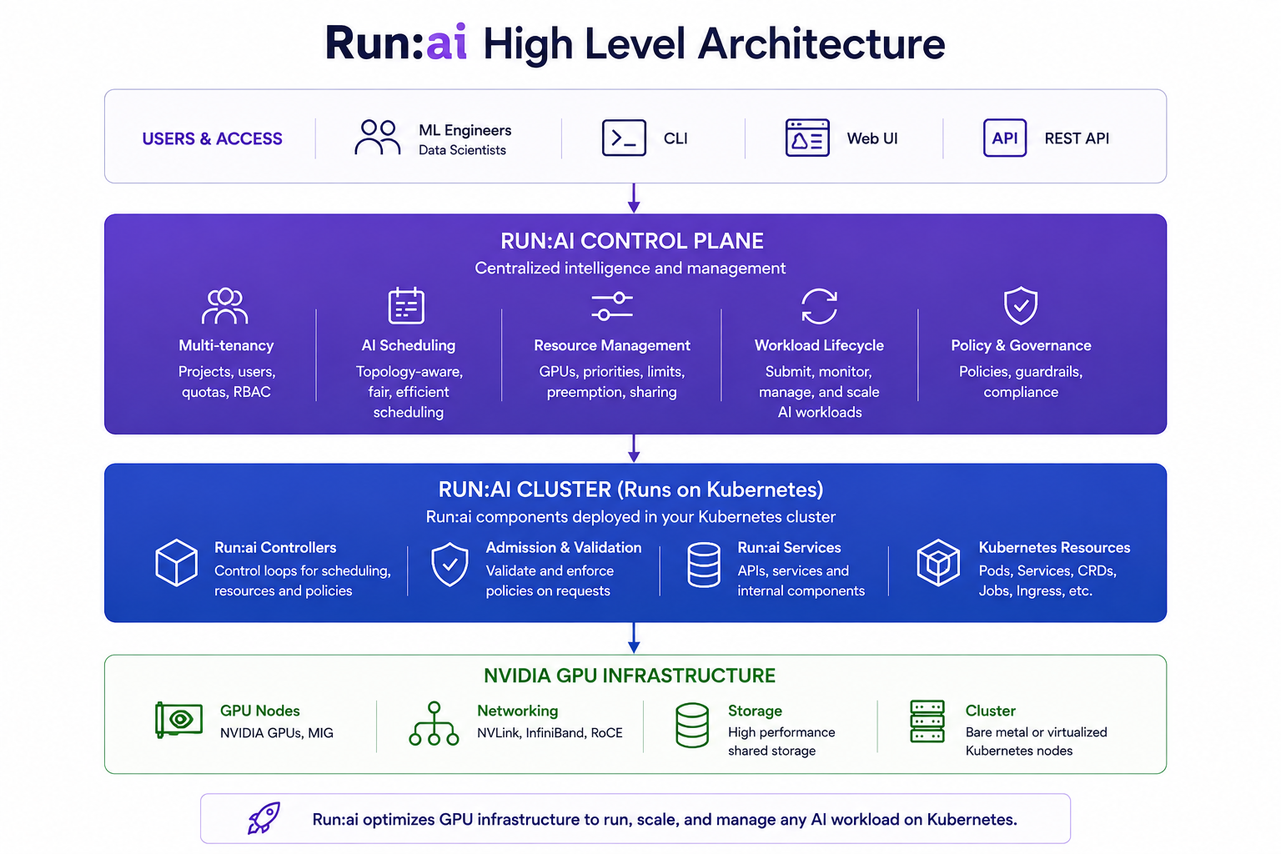
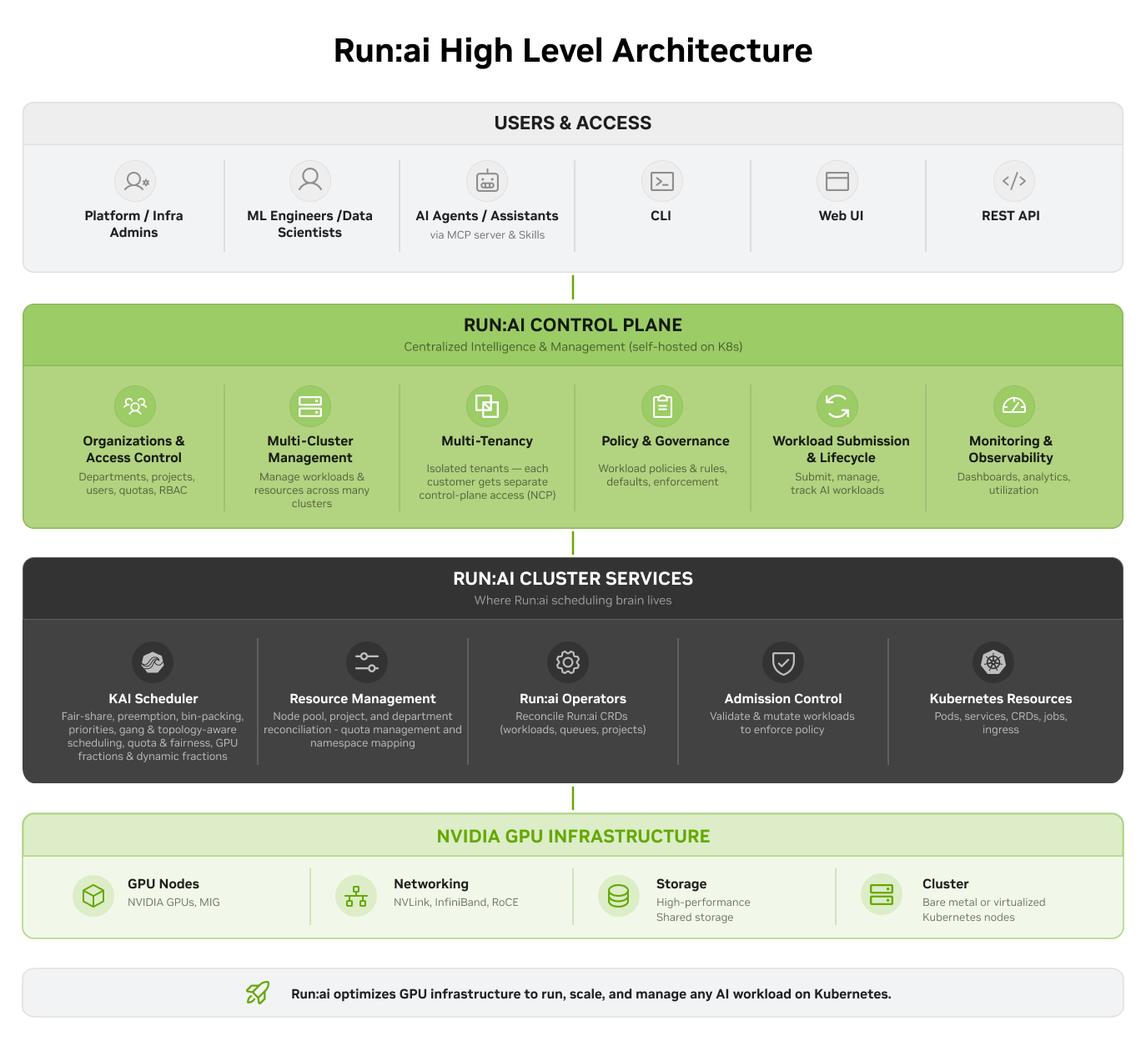
docs: update architecture.md services to match new platform diagram (#99)
* docs: update architecture.md services to match new platform diagram

Adds gateway-hub, tenants-manager, policy-service, notifications-service,
runtime-rules, and a new Resource Management section (nodepool-controller,
project-controller) to keep the Control Plane and Cluster Components
sections aligned with the new system-overview diagram. Replaces the
system-overview.png referenced by both README.md and architecture.md.

* docs: add OSS composition diagram to External Dependencies

Adds docs/assets/oss-composition.svg, showing how KAI Scheduler, Karta,
and KRM connect to Run:ai's own cluster components in the workload
scheduling pipeline. Updates the External Dependencies section text:
resolves the open TBD (KAI Scheduler is a direct runai-chart dependency,
v0.16.9), adds kai-gpu-fractioning as a KAI Scheduler sub-dependency,
corrects the KRM description (it's a shared CRD schema consumed by
nodepool-controller/project-controller, not a rolling-out toggle), and
notes Karta's role in anyworkload-controller's pod creation.

* docs: rewrite external dependencies wording and add kai-gpu-fractioning

Drops hardcoded chart versions, promotes kai-gpu-fractioning to its own
entry (dependency of KAI Scheduler, not runai-chart), points Karta's
source at its GitHub repo instead of the OCI chart URL, links
kai-resource-management-api, and removes stale/speculative KRM text
that referenced a kai-resource-management repo that doesn't exist.
[…]

diff --git a/docs/developer/architecture.md b/docs/developer/architecture.md
@@ -17,20 +17,22 @@ NVIDIA Run:ai exposes four interfaces to administrators, AI practitioners, and e
 
 ## Control Plane Services
 
-The control plane is the centralized management layer of NVIDIA Run:ai. It provides the APIs and services that configure, monitor, and manage AI environments across one or more Kubernetes clusters from a single place, and because it's decoupled from any single cluster, one control plane can manage multiple clusters and tenants, with each tenant getting its own isolated UI, API, and CLI. Internally, control plane services are independently deployable microservices that communicate over a pub/sub event bus. The sections below group these services by the capability they deliver - identity and access, organizational structure, workload lifecycle, observability, and platform delivery. See the [Service Reference](services.md) for the complete list of control-plane services.
+The control plane is the centralized management layer of NVIDIA Run:ai. It provides the APIs and services that configure, monitor, and manage AI environments across one or more Kubernetes clusters from a single place, and because it's decoupled from any single cluster, one control plane can manage multiple clusters and tenants, with each tenant getting its own isolated UI, API, and CLI. Internally, control plane services are independently deployable microservices that communicate over a pub/sub event bus. The sections below group these services by the capability they deliver - identity and access, organizational structure, workload lifecycle, observability, multi-cluster management, and platform delivery. See the [Service Reference](services.md) for the complete list of control-plane services.
 
-- **Identity and Access** - Handles authentication, identity provider integration, and RBAC enforcement across all services. Every request to NVIDIA Run:ai, through the UI, CLI, or API, is authenticated and then authorized before it's allowed to proceed. [identity-manager](https://github.com/dsx-ai-factory/run-ai/tree/main/control-plane/identity-manager) authenticates the requester, resolving external identity providers, local users, and service accounts, and issuing and revoking tokens. [authorization](https://github.com/dsx-ai-factory/run-ai/tree/main/control-plane/authorization) then evaluates that identity against RBAC roles and access rules to resolve the effective permissions for the request.
-- **Organizational Structure** - Manages the hierarchy of tenants, departments, and projects that scopes resource quotas and access rules. Compute is organized into a physical layer (nodes and node pools) and an organizational layer (departments and projects) connected through quota. [org-unit-service](https://github.com/dsx-ai-factory/run-ai/tree/main/control-plane/org-unit-service) persists that hierarchy and the quota allocated at each level, and syncs it to every managed cluster so scheduling and quota enforcement always resolve against the same source of truth.
-- **Workload Lifecycle** - Handles workload submission, policy enforcement, asset management, and persistent storage. When a workload is submitted, [workloads-manager](https://github.com/dsx-ai-factory/run-ai/tree/main/control-plane/workloads-manager) validates it against effective policy, resolves any assets it references, and generates the Kubernetes manifests that get synced down to the cluster. [assets-service](https://github.com/dsx-ai-factory/run-ai/tree/main/control-plane/assets-service) manages those reusable assets, environments, compute resources, credentials, data sources, so workloads can reference a standardized configuration instead of repeating it.
-- **Observability** - Collects and serves GPU and workload metrics, audit logs, and event-driven notifications. [metrics-service](https://github.com/dsx-ai-factory/run-ai/tree/main/control-plane/metrics-service) queries per-tenant, per-cluster Prometheus stores and serves GPU and workload metrics over REST. [audit-service](https://github.com/dsx-ai-factory/run-ai/tree/main/control-plane/audit-service) ingests user and system action events from the pub/sub bus and persists them for query.
-- **Platform Delivery** - Serves the web UI, CLI binaries, and the cluster-facing APIs that track node and Kubernetes object state. [frontend](https://github.com/dsx-ai-factory/run-ai/tree/main/control-plane/frontend) is the web UI. [cluster-service](https://github.com/dsx-ai-factory/run-ai/tree/main/control-plane/cluster-service) maintains control-plane state for cluster-scoped resources, currently node inventory, and syncs it from connected clusters.
+- **Identity and Access** - Handles authentication, identity provider integration, and RBAC enforcement across all services. Every request to NVIDIA Run:ai, through the UI, CLI, or API, is authenticated and then authorized before it's allowed to proceed. [gateway-hub](https://github.com/dsx-ai-factory/run-ai/tree/main/control-plane/gateway-hub) is the entry point for every request, validating the bearer token and resolving the tenant from the request subdomain before routing it onward. [identity-manager](https://github.com/dsx-ai-factory/run-ai/tree/main/control-plane/identity-manager) then authenticates the requester, resolving external identity providers, local users, and service accounts, and issuing and revoking tokens. [authorization](https://github.com/dsx-ai-factory/run-ai/tree/main/control-plane/authorization) evaluates that identity against RBAC roles and access rules to resolve the effective permissions for the request.
+- **Organizational Structure** - Manages the hierarchy of tenants, departments, and projects that scopes resource quotas and access rules. Compute is organized into a physical layer (nodes and node pools) and an organizational layer (departments and projects) connected through quota. [tenants-manager](https://github.com/dsx-ai-factory/run-ai/tree/main/control-plane/tenants-manager) manages tenant lifecycle, creation, deletion, and configuration, in multi-tenant deployments, giving each tenant its own isolated UI, API, and CLI. [org-unit-service](https://github.com/dsx-ai-factory/run-ai/tree/main/control-plane/org-unit-service) persists the department and project hierarchy and the quota allocated at each level, and syncs it to every managed cluster so scheduling and quota enforcement always resolve against the same source of truth.
+- **Workload Lifecycle** - Handles workload submission, policy enforcement, asset management, and persistent storage. [policy-service](https://github.com/dsx-ai-factory/run-ai/tree/main/control-plane/policy-service) stores workload policies per scope, tenant, department, project, and computes the effective policy for each. When a workload is submitted, [workloads-manager](https://github.com/dsx-ai-factory/run-ai/tree/main/control-plane/workloads-manager) validates it against that effective policy, resolves any assets it references, and generates the Kubernetes manifests that get synced down to the cluster. [assets-service](https://github.com/dsx-ai-factory/run-ai/tree/main/control-plane/assets-service) manages those reusable assets, environments, compute resources, credentials, data sources, so workloads can reference a standardized configuration instead of repeating it.
+- **Observability** - Collects and serves GPU and workload metrics, audit logs, and event-driven notifications. [metrics-service](https://github.com/dsx-ai-factory/run-ai/tree/main/control-plane/metrics-service) queries per-tenant, per-cluster Prometheus stores and serves GPU and workload metrics over REST. [audit-service](https://github.com/dsx-ai-factory/run-ai/tree/main/control-plane/audit-service) ingests user and system action events from the pub/sub bus and persists them for query. [notifications-service](https://github.com/dsx-ai-factory/run-ai/tree/main/control-plane/notifications-service) ingests platform events and routes and renders them via configurable rules and templates, dispatching to channels such as email and Slack.
+- **Multi-Cluster Management** - Allows one control plane to manage workloads and resources across many connected Kubernetes clusters. [cluster-service](https://github.com/dsx-ai-factory/run-ai/tree/main/control-plane/cluster-service) maintains control-plane state for cluster-scoped resources, currently node inventory, and syncs it from every connected cluster so cross-cluster views stay current.
+- **Platform Delivery** - Serves the web UI and CLI binaries. [frontend](https://github.com/dsx-ai-factory/run-ai/tree/main/control-plane/frontend) is the web UI.
 
 ## Cluster Components
 
 Each Kubernetes cluster connected to NVIDIA Run:ai runs a set of cluster components that extend Kubernetes with AI-specific capabilities, installed and managed by the [go-operator](https://github.com/dsx-ai-factory/run-ai/tree/main/runai-cluster/cluster/go-operator), which owns their full lifecycle: deploy, configure, and update. The cluster plane is CRD-driven: components reconcile control-plane desired state into cluster CRDs such as `RunaiConfig`, `AccessRule`, and `WorkloadRunner`, and report status back through the same CRDs. See the [Service Reference](services.md) and [CRD Reference](crds.md) for the complete list of cluster components and CRDs.
 
 - **Data Sync** - [agent](https://github.com/dsx-ai-factory/run-ai/tree/main/runai-cluster/cluster/agent) pulls desired state for every resource kind, projects, workloads, access rules, node pools, credentials, from the control plane and reconciles each into the cluster. [cluster-sync](https://github.com/dsx-ai-factory/run-ai/tree/main/runai-cluster/cluster/cluster-sync) watches those CRDs and live Kubernetes objects and pushes their state back up to the control plane. This two-channel pattern, desired state down, live state up, is how the two planes stay synchronized, over an outbound-only, secured connection so clusters never need to be publicly reachable.
-- **Scheduling** - [admission-controller](https://github.com/dsx-ai-factory/run-ai/tree/main/runai-cluster/cluster/admission-controller) intercepts pod creation and injects Run:ai scheduling attributes, labels, annotations, resource patches, before a pod is admitted. The actual placement decision is made by the Scheduler, built on the external KAI Scheduler (see External Dependencies below), which applies fair-share, preemption, bin-packing, and topology-aware placement rules. Each node pool runs its own Scheduler instance, so scheduling decisions for one hardware group never compete with another.
+- **Scheduling** - [admission-controller](https://github.com/dsx-ai-factory/run-ai/tree/main/runai-cluster/cluster/admission-controller) intercepts pod creation and injects Run:ai scheduling attributes, labels, annotations, resource patches, before a pod is admitted. The actual placement decision is made by the Scheduler, built on the external KAI Scheduler (see External Dependencies below), which applies fair-share, preemption, bin-packing, and topology-aware placement rules. Each node pool runs its own Scheduler instance, so scheduling decisions for one hardware group never compete with another. Once a workload is running, [runtime-rules](https://github.com/dsx-ai-factory/run-ai/tree/main/runai-cluster/cluster/runtime-rules) enforces time-based policies, terminating interactive and training workloads that exceed their configured idle or time limits.
+- **Resource Management** - Reconciles node pools and organizational units into the physical and namespace resources workloads run in. [nodepool-controller](https://github.com/dsx-ai-factory/run-ai/tree/main/runai-cluster/cluster/nodepool-controller) tags each node with the node pool it belongs to and starts a dedicated Scheduler instance per node pool. [project-controller](https://github.com/dsx-ai-factory/run-ai/tree/main/runai-cluster/cluster/project-controller) reconciles Project CRDs into their corresponding namespace, queue, limit range, and image pull secret.
 - **Workload Lifecycle** - [anyworkload-controller](https://github.com/dsx-ai-factory/run-ai/tree/main/runai-cluster/cluster/anyworkload-controller) translates a workload's CRD into its underlying pods and manages their full lifecycle: creation, status, teardown.
 - **RBAC and Project Isolation** - [accessrule-controller](https://github.com/dsx-ai-factory/run-ai/tree/main/runai-cluster/cluster/accessrule-controller) reconciles `AccessRule` CRDs into native Kubernetes RoleBindings in the corresponding project namespace. [shared-objects-controller](https://github.com/dsx-ai-factory/run-ai/tree/main/runai-cluster/cluster/shared-objects-controller) replicates shared objects, primarily PVCs from `DataVolume` CRDs, into every project or department namespace that references them.
 
@@ -48,11 +50,15 @@ A request moves through the platform in a loop: down from the control plane to t
 
 ## External Dependencies
 
-NVIDIA Run:ai's cluster components build on external open-source projects, pulled in as versioned Helm chart dependencies rather than built from Run:ai source. NVIDIA Run:ai packages, configures, and manages these dependencies as part of the platform, so no separate installation or maintenance is required to use them.
+NVIDIA Run:ai's cluster components build on external open-source projects, pulled in as versioned Helm chart dependencies or Go modules rather than built from Run:ai source. NVIDIA Run:ai packages, configures, and manages these dependencies as part of the platform, so no separate installation or maintenance is required to use them. The diagram below shows how these dependencies connect to Run:ai's own cluster components in the workload scheduling pipeline.
 
-- **[KAI Scheduler](https://github.com/kai-scheduler/KAI-Scheduler)** - An open-source, CNCF-donated AI-aware scheduling engine that applies fair-share, preemption, bin-packing, and multi-node placement rules to GPU workloads. It's the engine underlying the NVIDIA Run:ai Scheduler, integrated with Run:ai-specific configuration. It's now a sub-dependency of KRM's node pool controller. **TBD: check Helm chart** - Confirm whether KAI Scheduler is still also pulled in as a direct chart dependency elsewhere.
-- **[Karta](https://github.com/run-ai/karta)** - A CRD-based resource abstraction layer with its own operator. Karta defines a standard schema for describing any Kubernetes workload type - PyTorchJob, RayCluster, JobSet, and custom CRDs - so controllers can extract pod specs, replica counts, and status without per-type logic. Used in NVIDIA Run:ai to represent and reconcile workload resource attachments in the cluster.
-- **KAI Resource Management (KRM)** *(rolling out)* - Takes over node pool and project/department-to-namespace reconciliation, migrating them onto `kai.resources` CRDs behind a staged, feature-flagged rollout; legacy CRDs are still supported alongside it this release. Pod group scheduling coordination has not yet moved to KRM and remains in the go-operator's kai-operator.
+![How open source enables the NVIDIA Run:ai platform](../assets/oss-composition.svg)
+
+- **[KAI Resource Management (KRM)](https://github.com/kai-scheduler/kai-resource-management)** - An open-source Kubernetes-native resource-management layer for KAI Scheduler, adding projects, departments, node pools, queues, and workload-placement abstractions. Its Helm chart packages `nodepool-controller`, `project-controller`, `pod-group-assigner`, and `krm-operator`, replacing the versions of those controllers previously built from Run:ai's own cluster source. KRM is a direct Helm chart dependency of `runai-chart`.
+- **[KAI Scheduler](https://github.com/kai-scheduler/KAI-Scheduler)** - An open-source, CNCF-donated AI-aware scheduling engine that applies fair-share, preemption, bin-packing, priorities, gang and topology-aware scheduling, and quota and fairness rules to GPU workloads. It's the engine underlying the NVIDIA Run:ai Scheduler, integrated with Run:ai-specific configuration, and is a sub-chart dependency of KRM.
+- **[kai-gpu-fractioning](https://github.com/kai-scheduler/kai-gpu-fractioning)** - A Kubernetes operator that enables multiple pods to safely share a single GPU with enforced memory boundaries. It runs alongside KAI Scheduler: KAI Scheduler decides which fraction of which GPU a workload gets, and kai-gpu-fractioning enforces that memory boundary on the node and exports per-pod metrics for the resulting fractional GPUs. It's a sub-chart dependency of KAI Scheduler.
+- **[kai-resource-management-api](https://github.com/kai-scheduler/kai-resource-management-api)** - The API-only counterpart to KRM: the CRD type definitions (`kai.resources`: Project, Department, NodePool, ManagedNodesConfig, KRMConfig). Consumed as a Go module across Run:ai's own cluster services that read or write these CRDs, independent of which controller owns reconciling them. Migrating legacy CRDs onto `kai.resources` runs automatically this release and self-gates once complete; it isn't a customer-facing toggle.
+- **[Karta](https://github.com/run-ai/karta)** - A CRD-based resource abstraction layer with its own operator, and a direct Helm chart dependency of `runai-chart`. Karta defines a standard schema for describing any Kubernetes workload type - PyTorchJob, RayCluster, JobSet, and custom CRDs - so controllers can extract pod specs, replica counts, and status without per-type logic. Used by NVIDIA Run:ai's `anyworkload-controller` to create the pods for a submitted workload.
 
 <Note>
 These are open-source projects. A custom build of any dependency can be built and integrated in place of the default version. See [External Dependencies](external-dependencies.md) for source repositories, chart versions, and integration steps.

diff --git a/docs/developer/external-dependencies.md b/docs/developer/external-dependencies.md
@@ -1,39 +1,47 @@
 # External Dependencies
 
-The NVIDIA Run:ai cluster plane pulls in components from external repositories as Helm chart dependencies. These components are not built from the Run:ai source - they are consumed as versioned OCI charts and integrated at deploy time.
+NVIDIA Run:ai's cluster components build on external open-source projects, pulled in as versioned Helm chart dependencies or Go modules rather than built from Run:ai source. NVIDIA Run:ai packages, configures, and manages these dependencies as part of the platform, so no separate installation or maintenance is required to use them. The diagram below shows how these dependencies connect to Run:ai's own cluster components in the workload scheduling pipeline.
 
-The chart dependencies are declared in [`runai-chart/Chart.yaml`](https://github.com/dsx-ai-factory/run-ai/blob/main/runai-cluster/cluster/runai-chart/Chart.yaml) and documented in the [Chart dependencies](https://github.com/dsx-ai-factory/run-ai/blob/main/runai-cluster/cluster/runai-chart/README.md#chart-dependencies) section of the runai-chart README.
+![How open source enables the NVIDIA Run:ai platform](../assets/oss-composition.svg)
+
+Helm chart dependencies are declared in [`runai-chart/Chart.yaml`](https://github.com/dsx-ai-factory/run-ai/blob/main/runai-cluster/cluster/runai-chart/Chart.yaml) and documented in the [Chart dependencies](https://github.com/dsx-ai-factory/run-ai/blob/main/runai-cluster/cluster/runai-chart/README.md#chart-dependencies) section of the runai-chart README.
+
+## KAI Resource Management (KRM)
+
+**Source:** [`kai-scheduler/kai-resource-management`](https://github.com/kai-scheduler/kai-resource-management)
+**Dependency of:** `runai-chart` - a direct Helm chart dependency
+
+KAI Resource Management is a Kubernetes-native resource-management layer for KAI Scheduler, adding organizational abstractions - projects, departments, node pools, queues - and workload placement. Its Helm chart packages `nodepool-controller`, `project-controller`, `pod-group-assigner`, and `krm-operator`, replacing the versions of those controllers previously built from Run:ai's own cluster source, and declares KAI Scheduler as its own sub-chart dependency.
 
 ## KAI Scheduler
 
-**Source:** [`github.com/kai-scheduler/KAI-Scheduler`](https://github.com/kai-scheduler/KAI-Scheduler)
-**Chart:** `oci://ghcr.io/kai-scheduler/kai-scheduler`
+**Source:** [`kai-scheduler/KAI-Scheduler`](https://github.com/kai-scheduler/KAI-Scheduler)
+**Dependency of:** KRM - a sub-chart dependency (`oci://ghcr.io/kai-scheduler/kai-scheduler`, declared in KRM's `Chart.yaml`), not a direct entry in `runai-chart`
 
-The KAI (Kubernetes AI) Scheduler is an open-source, CNCF-donated AI-aware scheduling engine. It applies fair-share, preemption, bin-packing, and multi-node placement rules to GPU workloads.
+KAI (Kubernetes AI) Scheduler is an open-source, CNCF-donated AI-aware scheduling engine. It applies fair-share, preemption, bin-packing, and multi-node placement rules to GPU workloads, and is the engine underlying the NVIDIA Run:ai Scheduler.
 
 NVIDIA Run:ai integrates KAI with specific configuration overrides - the `go-operator` owns `kai-config` and the `kai-nodepool-controller` creates one KAI SchedulingShard per node pool. KAI's default queue, shard, and config-deployer components are disabled.
 
-Once `kai-resource-management` is added as a chart dependency, KAI Scheduler will become a sub-dependency of KRM rather than a direct entry in `runai-chart/Chart.yaml`.
+## kai-gpu-fractioning
+
+**Source:** [`kai-scheduler/kai-gpu-fractioning`](https://github.com/kai-scheduler/kai-gpu-fractioning)
+**Dependency of:** KAI Scheduler - a sub-chart dependency, so it does not need its own entry in `runai-chart/Chart.yaml`
+
+kai-gpu-fractioning is a Kubernetes operator that enables multiple pods to safely share a single GPU with enforced memory boundaries. It runs alongside KAI Scheduler: KAI Scheduler decides which fraction of which GPU a workload gets, and kai-gpu-fractioning enforces that memory boundary on the node and exports per-pod metrics for the resulting fractional GPUs.
+
+## kai-resource-management-api
+
+**Source:** [`kai-scheduler/kai-resource-management-api`](https://github.com/kai-scheduler/kai-resource-management-api)
+**Dependency of:** Run:ai's own cluster services (declared in each service's `go.mod`) - a Go module dependency, not a Helm chart dependency and not a separately running service
+
+The API-only counterpart to KRM: the CRD type definitions (`kai.resources`: Project, Department, NodePool, ManagedNodesConfig, KRMConfig). Any Run:ai service that reads or writes these CRDs imports this module for the typed Go structs, independent of which controller owns reconciling them - today that's a mix of Run:ai's own controllers and, once KRM is adopted, KRM's. Migrating legacy CRDs onto `kai.resources` runs automatically this release and self-gates once complete; it isn't a customer-facing toggle.
 
 ## Karta
 
-**Source:** `oci://ghcr.io/run-ai/karta`
-**Chart:** `oci://ghcr.io/run-ai/karta`
+**Source:** [`run-ai/karta`](https://github.com/run-ai/karta)
+**Dependency of:** `runai-chart` - a direct Helm chart dependency (`oci://ghcr.io/run-ai/karta`, declared in `Chart.yaml`)
 
 Karta is a CRD-based resource abstraction layer with its own operator. It replaced the legacy `ResourceInterface` (RI) CRD as the way Run:ai represents and reconciles workload resource attachments in the cluster. The `karta-migrate` Helm hook handles the one-time migration from RI to Karta CRs on upgrade.
-
-## KAI Resource Management *(coming)*
-
-**Source:** TBD
-**Chart:** TBD
-
-KAI Resource Management (KRM) is a planned external component that will own node pool management, pod group scheduling coordination, and project-to-namespace reconciliation. When it ships, it replaces the following components currently built from the Run:ai cluster source:
-
-- `nodepool-controller` - manages NodePool CRDs and per-pool scheduler instances
-- `pod-group-assigner` - assigns PodGroups to node pools for multi-node-pool scheduling
-- `project-controller` - reconciles Project CRDs into Namespace, Queue, LimitRange, and RBAC resources
-
-KRM will also take ownership of the Department, Project, and NodePool CRDs (currently in the `run.ai` and `kai.resources` API groups), and will pull in KAI Scheduler as a sub-dependency.
 
 ---
 

diff --git a/docs/developer/services.md b/docs/developer/services.md
@@ -48,6 +48,7 @@ Each managed Kubernetes cluster runs a set of controllers and webhooks installed
 - **Workload lifecycle** - translates Run:ai workload CRDs into Kubernetes resources and manages their full lifecycle (creation, status, teardown): `anyworkload-controller`
 - **Scheduling enforcement** - intercepts pod admission and applies runtime time-limit policies: `admission-controller`, `runtime-rules`
 - **RBAC and project isolation** - keeps cluster-side namespaces, queues, and role bindings in sync with the control plane's access rules and project definitions: `accessrule-controller`, `shared-objects-controller`
+- **Resource management** - reconciles node pools and organizational units into the physical and namespace resources workloads run in, and assigns pod groups across multi-node-pool workloads: `nodepool-controller`, `project-controller`, `pod-group-assigner`
 
 | Component | Description |
 |-----------|-------------|
@@ -68,6 +69,9 @@ Each managed Kubernetes cluster runs a set of controllers and webhooks installed
 | [application-controller](https://github.com/dsx-ai-factory/run-ai/tree/main/runai-cluster/cluster/application-controller) | Manages Application CRs in two modes: tracks existing deployed resources and reflects their state into Application status, or owns the full install/upgrade/uninstall lifecycle of a Helm chart. |
 | [runtime-rules](https://github.com/dsx-ai-factory/run-ai/tree/main/runai-cluster/cluster/runtime-rules) | Enforces time-based runtime policies on cluster workloads, terminating jobs that exceed configured idle or time limits for interactive and training workload types. |
 | [workload-exporter](https://github.com/dsx-ai-factory/run-ai/tree/main/runai-cluster/cluster/workload-exporter) | Exports Prometheus metrics for Run:ai workloads at the workload level (replaces the legacy pod-group metrics-exporter as of v2.17), covering GPU allocation, GPU memory, CPU, and memory per pod. |
+| [nodepool-controller](https://github.com/dsx-ai-factory/run-ai/tree/main/runai-cluster/cluster/nodepool-controller) | Tags each node with the NodePool it belongs to and starts a dedicated KAI Scheduler instance per node pool. |
+| [project-controller](https://github.com/dsx-ai-factory/run-ai/tree/main/runai-cluster/cluster/project-controller) | Reconciles Project CRDs into their corresponding namespace, queue, limit range, and image pull secret. |
+| [pod-group-assigner](https://github.com/dsx-ai-factory/run-ai/tree/main/runai-cluster/cluster/pod-group-assigner) | Assigns PodGroups across the node pools a workload was submitted to, trying each in turn until the PodGroup schedules successfully. |
 
 ---
 

diff --git a/docs/developer/crds.md b/docs/developer/crds.md
@@ -20,3 +20,14 @@ For an overview of how CRDs fit into the platform architecture, see the [Archite
 | [AccessRule](https://github.com/dsx-ai-factory/run-ai/blob/main/runai-cluster/cluster/runai-chart/charts/crds/crds/run_ai_accessrule.yaml) | `run.ai/v1alpha1` | Binds a subject (user or group) to a named role within a scope (cluster, department, or project). |
 | [DataVolume](https://github.com/dsx-ai-factory/run-ai/blob/main/runai-cluster/cluster/runai-chart/charts/crds/crds/run.ai_datavolumes.yaml) | `run.ai/v1alpha1` | Cluster-scoped reference to a source PVC that can be shared across multiple project namespaces as a reusable storage asset. |
 | [Application](https://github.com/dsx-ai-factory/run-ai/blob/main/runai-cluster/cluster/runai-chart/charts/crds/crds/run_ai_application.yaml) | `run.ai/v1alpha1` | An OAuth2 client application registered with the cluster's identity manager. |
+
+## Resource Management
+
+CRDs in the `kai.resources` API group, reconciled today by `nodepool-controller` and `project-controller` (see [Service Reference](services.md)). `NodePool` and `ManagedNodesConfig` also still have a legacy `run.ai`-group version; migrating those onto `kai.resources` runs automatically and self-gates once complete.
+
+| Kind | API group | Description |
+|------|-----------|-------------|
+| [NodePool](https://github.com/dsx-ai-factory/run-ai/blob/main/runai-cluster/cluster/runai-chart/charts/crds/crds/kai.resources_nodepools.yaml) | `kai.resources/v1alpha1` (legacy: `run.ai/v1alpha1`) | A partition of cluster nodes, tagged by `nodepool-controller`, that a workload can be scheduled onto; each node pool runs its own KAI Scheduler instance. |
+| [Project](https://github.com/dsx-ai-factory/run-ai/blob/main/runai-cluster/cluster/runai-chart/charts/crds/crds/kai.resources_projects.yaml) | `kai.resources/v1alpha1` | Reconciled by `project-controller` into a namespace, queue, limit range, and image pull secret. |
+| [Department](https://github.com/dsx-ai-factory/run-ai/blob/main/runai-cluster/cluster/runai-chart/charts/crds/crds/kai.resources_departments.yaml) | `kai.resources/v1alpha1` | The parent grouping of Projects, with its own quota and queues. |
+| [ManagedNodesConfig](https://github.com/dsx-ai-factory/run-ai/blob/main/runai-cluster/cluster/runai-chart/charts/crds/crds/kai.resources_managednodesconfigs.yaml) | `kai.resources/v1alpha1` (legacy: `run.ai/v1alpha1`) | Cluster-wide selection of which nodes are under NVIDIA Run:ai management. |
